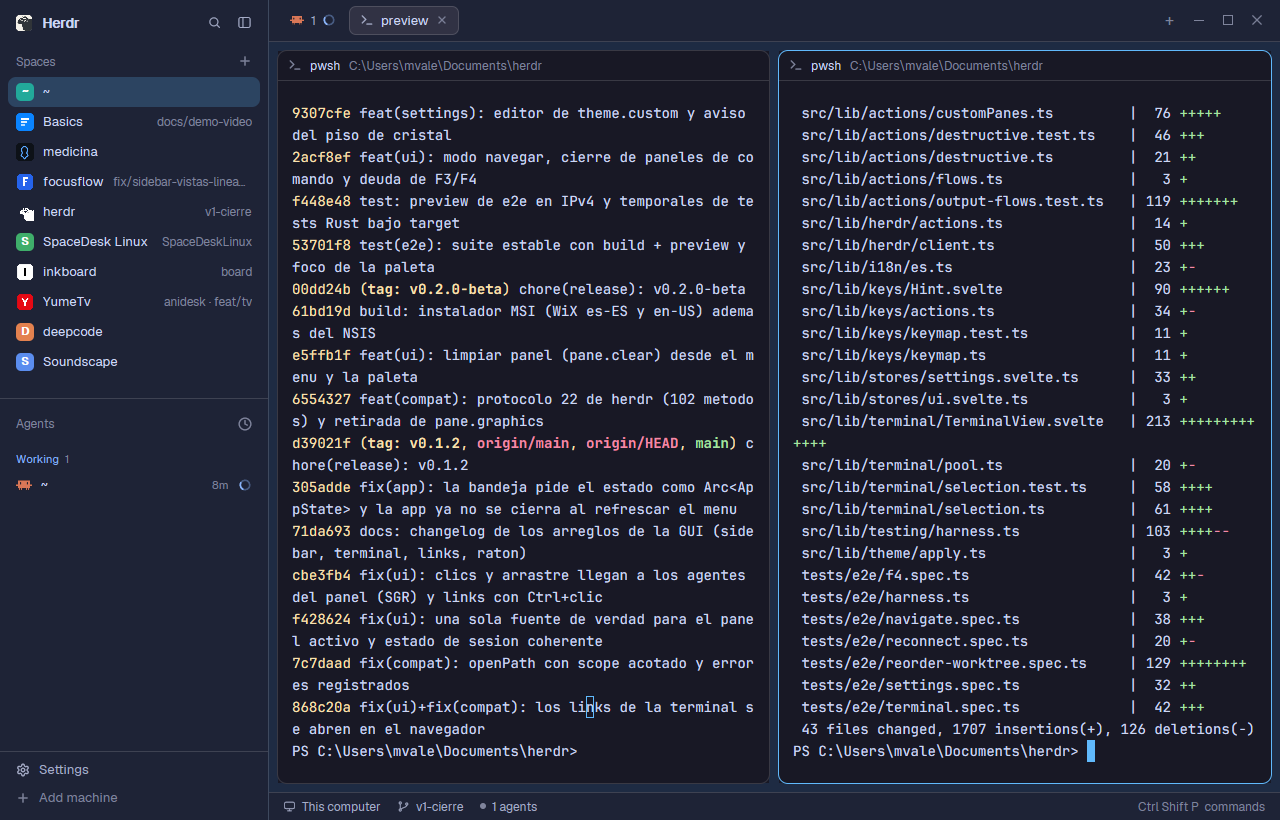
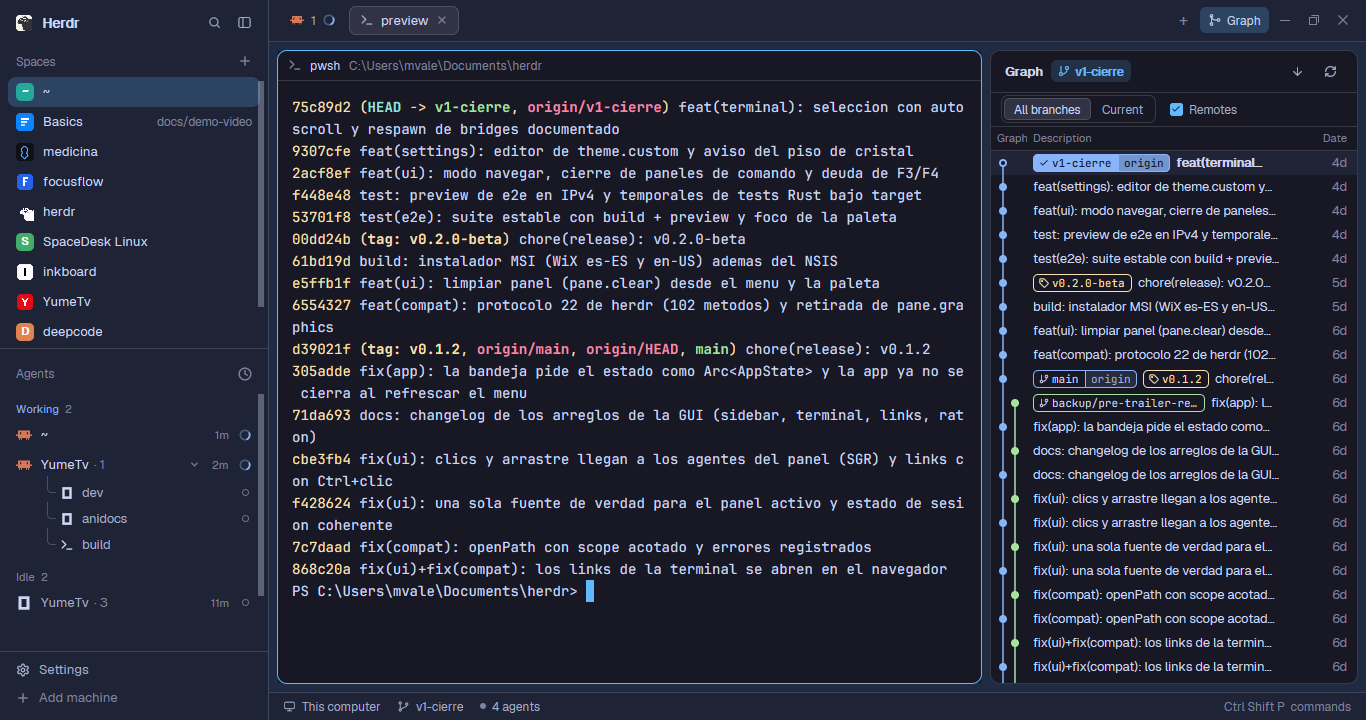
feat: Graph button in the tab bar for the git-graph mod
Adds mods/tabs-graph, a clone of Herdr's tabs mod with a Graph button that
opens rabeeh-ta/herdr-git-graph in the side panel. The button shows only
when git-graph is installed. Layout, recipe, README and preview updated.

diff --git a/mods/tabs-graph/main.js b/mods/tabs-graph/main.js
@@ -1,0 +1,112 @@
+import { View, div, svg, image } from "gpui-kit";
+import { h_flex } from "gpui-base";
+import { spaces, panes, run, openOverlay, theme, window, shared, layout, settings, appHome } from "herdr";
+import * as fs from "fs/promises";
+
+function find(node, id) {
+  if (node?.id === id) return node;
+  for (const child of node?.children ?? []) {
+    const found = find(child, id);
+    if (found) return found;
+  }
+  return null;
+}
+
+export default class Tabs extends View {
+  init(_props, cx) {
+    this.pressed = null;
+    this.panels = JSON.parse(localStorage.getItem("panels") ?? "{}");
+    // The Graph button shows only when the git-graph mod is installed
+    // (github.com/rabeeh-ta/herdr-git-graph): without it the panel would be empty.
+    this.hasGraph = false;
+    cx.spawn(async (cx) => {
+      try { this.hasGraph = await fs.exists(`${appHome().split("\\").join("/")}/mods/git-graph/main.js`); } catch {}
+      if (this.hasGraph) cx.notify();
+    });
+  }
+
+  // The side panel is remembered per space: switching shows that space's choice
+  // (closed if it never had one), and opening or closing it records it.
+  syncPanel(space, panel, body, enabled) {
+    if (!space || !panel) return;
+    const now = panel.hidden ? null : body?.active ?? null;
+    if (space.id !== this.space) {
+      const first = this.space === undefined;
+      this.space = space.id; this.pending = null;
+      if (!(first && !(space.id in this.panels))) {
+        const stored = this.panels[space.id] ?? null, want = enabled.includes(stored) ? stored : null;
+        if (want !== now) {
+          this.pending = { want, until: Date.now() + 1000 };
+          if (want) { run("layout.select", { stack: "panel-body", child: want }); run("layout.show", { id: "panel" }); }
+          else run("layout.hide", { id: "panel" });
+          return;
+        }
+      }
+    }
+    // Until the restore lands (or something else won), the old state isn't a choice.
+    if (this.pending) {
+      if (this.pending.want !== now && Date.now() < this.pending.until) return;
+      this.pending = null;
+    }
+    if (this.panels[space.id] === now) return;
+    this.panels[space.id] = now;
+    localStorage.setItem("panels", JSON.stringify(this.panels));
+  }
+
+  render() {
+    const t = theme();
+    const space = spaces().find(p => p.active);
+    const shown = space?.tabs ?? [];
+    const stop = (_e, cx) => cx.stop_propagation();
+    const button = (id, label, action) => div().id(id).size(26).flex_none().flex().items_center().justify_center().rounded(6).text_color(t.dim).hover(s => s.bg(t.hover).text_color(t.foreground))
+      .on_mouse_down("left", stop).on_click(action).child(label);
+    const item = (c, i) => {
+      const program = panes().find(p => p.tab === c.id && p.program?.agent)?.program ?? panes().find(p => p.tab === c.id)?.program;
+      const name = /^tb\d+$/.test(c.name) ? program?.name ?? "Terminal" : c.name;
+      return h_flex().id(`tab-${c.id}`).h(29).px(10).gap(7).rounded(7).items_center().flex_none().text_size(12.8)
+        .border(1).border_color(c.active ? t.border : t.chrome).bg(c.active ? t.raised : t.chrome).text_color(c.active ? t.foreground : t.muted)
+        .hover(s => s.bg(t.hover))
+        .on_mouse_down("left", (e, cx) => { cx.stop_propagation(); this.pressed = i; if (e.click_count === 2) run("tab.rename", { id: c.id }); })
+        .on_mouse_up("left", () => {
+          const from = this.pressed; this.pressed = null;
+          if (from !== null && from !== i) run("tab.move", { id: shown[from].id, index: space.tabs.findIndex(x => x.id === c.id) + 1 });
+          else run("tab.select", { id: c.id });
+        })
+        .on_mouse_down("right", (_e, cx) => { cx.stop_propagation(); openOverlay({ mod: "menu", kind: "popup", width: 200, props: { tab: "tab", target: { id: c.id, space: space.id } } }); })
+        .when(Boolean(program?.icon), el => el.child(program.tint ? svg(program.icon).size(14).text_color(t.muted) : image(program.icon).size(14)))
+        .child(div().max_w(170).truncate().child(c.zoomed ? `${name} Z` : name))
+        .when(c.status === "working", el => el.child(svg("mods/workspace-chrome/spinner.svg").size(12).flex_none().text_color(t.working).spin(900)))
+        .when(c.status === "blocked" || c.status === "done", el => el.child(div().size(6).rounded(3).bg(t[c.status])))
+        .when(c.active, el => el.child(div().id(`close-${c.id}`).text_color(t.dim).on_mouse_down("left", stop).on_click((_e, cx) => { cx.stop_propagation(); run("tab.close", { id: c.id }); }).child(svg("mods/pane/close.svg").size(12))));
+    };
+    const root = layout(), sidebar = find(root, "sidebar"), w = window();
+    // Old saved rails and a dragged-narrow sidebar can be smaller than the window buttons.
+    const lightsPadding = w?.platform === "macos" && w.titlebar === "none" && !w.fullscreen && root?.traffic_lights
+      ? Math.max(10, (root.traffic_lights[0] + 64) / settings().zoom - (sidebar?.hidden ? 0 : sidebar?.size?.px ?? 0))
+      : 10;
+    const panel = find(root, "panel"), body = find(root, "panel-body");
+    const enabled = [...(shared("workspace.panels") ?? ["files", "changes"]), ...(this.hasGraph ? ["graph"] : [])];
+    this.syncPanel(space, panel, body, enabled);
+    const panelButton = (id, label, icon) => {
+      const on = panel && !panel.hidden && body?.active === id;
+      return h_flex().id(`panel-${id}`).h(26).px(8).gap(5).flex_none().items_center().rounded(6)
+        .text_size(12).bg(on ? t.selected : t.chrome).text_color(on ? t.foreground : t.muted)
+        .hover(s => s.bg(t.hover)).on_mouse_down("left", stop)
+        .on_click(() => {
+          if (on) run("layout.hide", { id: "panel" });
+          else { run("layout.select", { stack: "panel-body", child: id }); run("layout.show", { id: "panel" }); }
+        }).child(svg(icon).size(14)).child(label);
+    };
+    return h_flex().size_full().min_w(0).px(10).pl(lightsPadding).gap(3).items_center().bg(t.chrome).border_b(1).border_color(t.border)
+      .on_mouse_up("left", () => { this.pressed = null; })
+      .on_scroll_wheel(e => { if (Math.abs(e.delta.y) >= 1) run(e.delta.y > 0 ? "tab.prev" : "tab.next"); })
+      .child(h_flex().id("tab-scroll").flex_1().min_w(0).h_full().items_center().gap(3).overflow_x_scrollbar().children(shown.map(item)))
+      .child(button("tab-new", "+", () => openOverlay({ mod: "new-menu", kind: "popup", width: 250, height: 512 })))
+      .when(enabled.includes("files"), el => el.child(panelButton("files", "Files", "mods/files/file.svg")))
+      .when(enabled.includes("changes"), el => el.child(panelButton("changes", "Changes", "mods/changes/changes.svg")))
+      .when(enabled.includes("graph"), el => el.child(panelButton("graph", "Graph", "mods/git-graph/icons/graph.svg")))
+      .when(w?.buttons, el => el.child(button("minimize", w.platform === "windows" ? svg("mods/tabs-graph/win-min.svg").size(16) : "−", () => run("window.minimize")))
+        .child(button("maximize", w.platform === "windows" ? svg(`mods/tabs-graph/${w.maximized ? "win-restore" : "win-max"}.svg`).size(16) : "□", () => run("window.maximize")))
+        .child(button("close-window", w.platform === "windows" ? svg("mods/tabs-graph/win-close.svg").size(16) : svg("mods/pane/close.svg").size(13), () => run("window.close"))));
+  }
+}

diff --git a/RECIPE.md b/RECIPE.md
@@ -37,6 +37,11 @@ Other theme colors: `surface` `#1a1d2d`, `popover` `#20202e`, `raised`
 - **Project icons on the space avatars**: in the Spaces list, each space whose
   project has an icon shows it on its 18px avatar (radius 5), in full color.
   Spaces without one keep Herdr's colored letter tile.
+- **Graph button** in the tab bar, right of `+`, when the git-graph mod
+  (github.com/rabeeh-ta/herdr-git-graph) is installed: a 26px pill (radius 6,
+  14px graph icon, "Graph" at 12px, `muted` on `chrome`, `selected` when its
+  panel shows). It opens the side panel (368px) with Git Graph's commit graph of
+  the focused terminal's repository. Without git-graph the button isn't drawn.
 
 ## How it behaves
 
@@ -64,6 +69,10 @@ Other theme colors: `surface` `#1a1d2d`, `popover` `#20202e`, `raised`
   results live in shared state: a layout or theme change starts a new copy of
   the mod, which inherits them and searches nothing. A project is looked at
   again only when it is new or its result is a day old.
+- **Graph**: clicking the button selects `graph` in the side panel's stack and
+  shows the panel; clicking it again while it shows hides the panel, like Files
+  and Changes. Everything inside the panel is git-graph's own (lanes, labels,
+  checkout on double-click, right-click menus, commit details).
 
 ## Built from
 
@@ -77,14 +86,15 @@ Other theme colors: `surface` `#1a1d2d`, `popover` `#20202e`, `raised`
     `spaces` (mod `spaces-icons`) and `agents` blocks (weight 1, min 90), `sidebar-footer` block
     (69px, mod `workspace-chrome`, props `{ "footer": true }`).
   - `work` (column, `resizable: false`): `tabs` block (42px, `window_drag`, mod
-    `tabs`), `work-body` row (padding 8, gap 8) with `main` block
+    `tabs-graph`), `work-body` row (padding 8, gap 8) with `main` block
     (`{ "tab": "active" }`, pane frame: gap 8, radius 10, background
     `background`, `lone: true`, border 1 `border`, focus 1 `accent`, header mod
     `pane`, 30px, top, `reveal: "always"`) and a hidden `panel` column (368px)
     holding a `stack` of `files` and `changes` blocks; `status` block (28px, mod
     `workspace-status`).
-- Mods: `spaces-icons` (below) for the Spaces list, and the shipped
-  `workspace-chrome`, `agents`, `tabs`, `pane`, `files`, `changes`,
+- Mods: `spaces-icons` (below) for the Spaces list, `tabs-graph` (below) for
+  the tab bar, and the shipped
+  `workspace-chrome`, `agents`, `pane`, `files`, `changes`,
   `workspace-status`.
 - `themes/herdr-catppuccin.json` and `themes/herdr-catppuccin-latte.json`, generated from
   herdr-desk's tokens (Catppuccin Mocha / Latte, as transcribed from herdr):
@@ -116,8 +126,30 @@ Other theme colors: `surface` `#1a1d2d`, `popover` `#20202e`, `raised`
     `panes()` once per render and passes each row its `icon`; `row` draws
     `div().size(18).rounded(5).overflow_hidden().child(image(icon).size(18))`,
     else the original letter tile. Everything else is the shipped `spaces`.
+- `mods/tabs-graph/`: a clone of the shipped `tabs` mod
+  (`herdr-app do mod.clone '{"name":"tabs","as":"tabs-graph"}'`), used by the
+  `tabs` block, following git-graph's `docs/top-bar.md`. Its changes:
+  - `init(_props, cx)` checks once, with `fs.exists`, for
+    `<appHome>/mods/git-graph/main.js` and sets `this.hasGraph`.
+  - The enabled panels become `[...(shared("workspace.panels") ?? ["files",
+    "changes"]), ...(this.hasGraph ? ["graph"] : [])]`.
+  - After the Changes button: `.when(enabled.includes("graph"), el =>
+    el.child(panelButton("graph", "Graph", "mods/git-graph/icons/graph.svg")))`.
+- The `panel-body` stack gets a third child after `files` and `changes`:
+  `{ "id": "graph", "type": "block", "content": { "mod": "git-graph" } }`.
+- `mods/git-graph/` itself isn't in this repo: install it from
+  github.com/rabeeh-ta/herdr-git-graph (MIT). It runs `git` in the focused
+  repository, reads the repositories open in other spaces ahead every 15s, and
+  reaches the network only through git (Fetch, Push, deleting a remote branch).
 
 ## Watch out
+
+- Without `mods/git-graph/` the Graph button is hidden but the `graph` block
+  is still in the stack; nothing opens it, so it stays unseen.
+- `tabs-graph` is a frozen copy of Herdr 0.1.10's `tabs`: a Herdr release that
+  changes the tab bar won't reach it. Clone `tabs` again and redo the three edits.
+- Each layout keeps its own panel state: opening Graph in one layout doesn't open
+  it in another.
 
 - `spaces-icons` reads files outside its own folder (the projects of your
   spaces) and runs a program to copy PNG icons (`cmd /c copy` on Windows,
@@ -167,3 +199,6 @@ Other theme colors: `surface` `#1a1d2d`, `popover` `#20202e`, `raised`
 - A space whose repo has `src-tauri/icons/128x128.png` shows that picture on its
   avatar within about 10 seconds, and `data/spaces-icons/` holds a non-empty copy;
   a space with no icon file shows its colored letter.
+- `herdr-app check mods/tabs-graph` passes. With git-graph installed, Graph
+  shows in the tab bar and opens a commit graph of the focused terminal's repo
+  (`Not a git repository` outside one); with it removed, the button is gone.

diff --git a/README.md b/README.md
@@ -11,12 +11,15 @@ Herdr's own window (spaces and agents on the left, tabs as pills, panes as cards
 | `layouts/catppuccin.json` | the layout (Herdr's main window structure) |
 | `layouts/catppuccin.png` | the picture Settings shows for it |
 | `mods/spaces-icons/` | the Spaces list, showing each project's own icon on its avatar |
+| `mods/tabs-graph/` | the tab bar, with a Graph button when git-graph is installed |
 | `themes/herdr-catppuccin.json` | Catppuccin Mocha, dark |
 | `themes/herdr-catppuccin-latte.json` | Catppuccin Latte, light |
 
 **Project icons:** the Spaces list (`mods/spaces-icons`, a clone of Herdr's `spaces`) shows each project's own icon on its avatar when the project has one: a Tauri app icon, `icon.*`, `logo.*`, `assets/`, `public/` logos, or a favicon, in the project folder, one folder down, or in `apps/*` / `packages/*`. Drop an `.herdr/icon.png` (or `.svg`) in a project to choose its icon. Projects without one keep the colored letter.
 
-What it touches: it reads your spaces' project folders, copies the icon it finds into `~/.config/herdr-app/data/spaces-icons/` (PNGs with `cmd /c copy` on Windows, `cp` elsewhere) and remembers the results in shared state. No network access. The other mods are Herdr's own.
+What it touches: it reads your spaces' project folders, copies the icon it finds into `~/.config/herdr-app/data/spaces-icons/` (PNGs with `cmd /c copy` on Windows, `cp` elsewhere) and remembers the results in shared state. No network access. Apart from `tabs-graph` (below), the other mods are Herdr's own.
+
+**Git Graph (optional):** the tab bar (`mods/tabs-graph`, a clone of Herdr's `tabs`) adds a **Graph** button beside `+` that opens [Git Graph](https://github.com/rabeeh-ta/herdr-git-graph) in the side panel: a commit graph of the focused terminal's repository with checkout, merge, rebase and more. Git Graph isn't bundled here: install it too (below). Without it the button simply doesn't show.
 
 ## Install
 
@@ -26,6 +29,13 @@ Copy the folders into your Herdr home (`~/.config/herdr-app`, or `HERDR_APP_HOME
 git clone https://github.com/MarcozVD/herdr-layout-catppuccin
 cp -r herdr-layout-catppuccin/{layouts,themes,mods} ~/.config/herdr-app/
 herdr-app do layout.switch '{"name":"catppuccin"}'
+```
+
+For the Graph button, also add Git Graph (it runs `git` in your repositories; network only on Fetch/Push):
+
+```sh
+git clone https://github.com/rabeeh-ta/herdr-git-graph
+cp -R herdr-git-graph/mods/git-graph ~/.config/herdr-app/mods/
 ```
 
 On Windows PowerShell:
